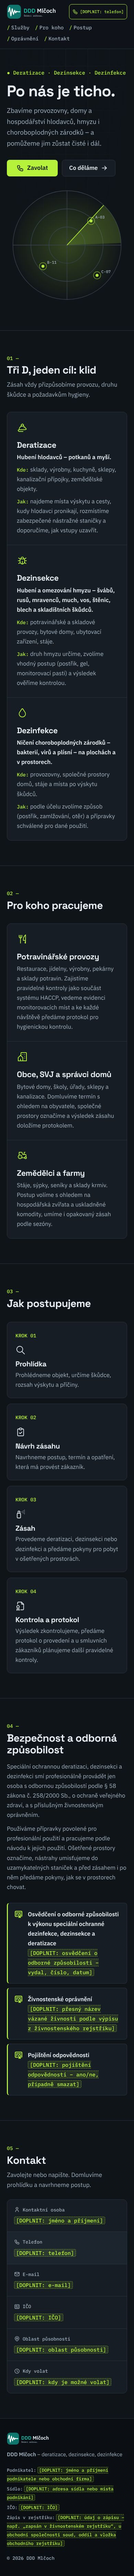
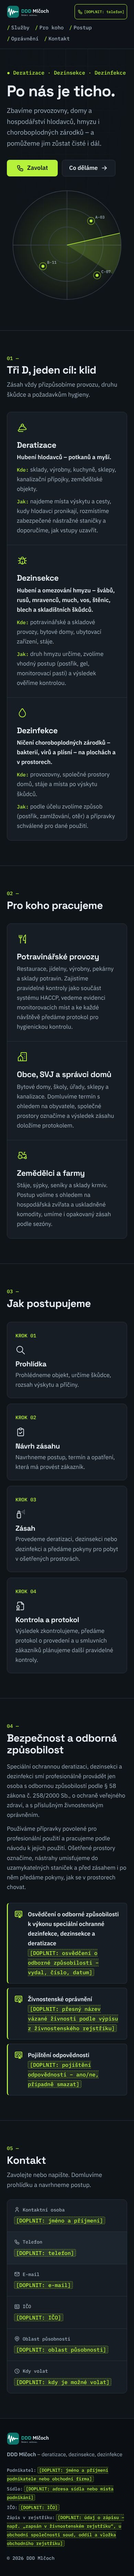
Krok 5–6: úprava hlavičky pro úzké mobily, nové náhledy, finální HANDOFF
Claude-Session: https://claude.ai/code/session_01GAFDRxXf4x42sG6FJH3ahW

Changed region(s): [[0.5846, 0.0624, 0.8923, 0.1249], [0.1231, 0.0, 0.1538, 0.0312], [0.0615, 0.0, 0.0923, 0.0312]]

diff --git a/navrhy/spolecne/zaklad.css b/navrhy/spolecne/zaklad.css
@@ -30,3 +30,8 @@ a { color: inherit; }
   .menu ul { column-gap: 16px !important; }
   .menu a { font-size: .92rem !important; }
 }
+/* Nejužší mobily (do 400 px): menší logo a tlačítko, aby se vešly vedle sebe */
+@media (max-width: 400px) {
+  .hlavicka .logo-slot { height: 36px; }
+  .hlavicka .btn--tel { font-size: .74rem !important; padding: .3em .6em !important; gap: .35em; }
+}

diff --git a/docs/HANDOFF.md b/docs/HANDOFF.md
@@ -2,26 +2,67 @@
 datum: 2026-11-05 · předává: krok 01 (návrhy) · přebírá: krok 02 (stavba webu)
 
 ## Stav jednou větou
-Rozpracováno – hotový základ, 10 log a texty; pokračují designy.
+Hotovo: 10 log, 5 návrhů hlavní stránky s přepínačem log, společné texty a galerie `navrhy/index.html`; čeká se na Davidův výběr loga a designu.
 
 ## Průběh (odškrtávej po každém kroku, pak commit + push)
 - ☑ Krok 0 – základ repozitáře
 - ☑ Krok 1 – 10 log
 - ☑ Krok 2 – texty + ověření právních bodů
-- ☐ Krok 3 – 5 designů
-- ☐ Krok 4 – galerie
-- ☐ Krok 5 – kontrola v prohlížeči
-- ☐ Krok 6 – dokončení předávky
-Rozpracováno: krok 3 – 5 designů v `navrhy/designy/`.
+- ☑ Krok 3 – 5 designů
+- ☑ Krok 4 – galerie
+- ☑ Krok 5 – kontrola v prohlížeči
+- ☑ Krok 6 – dokončení předávky
+Rozpracováno: nic. Další krok je Davidův výběr a prompt 02.
 
 ## Hotovo
-- Loga: (doplní se)
-- Designy: (doplní se)
-- Struktura složky `navrhy/`: (doplní se)
+### Loga (`navrhy/loga/`)
+Každé logo má soubor `logo-NN.svg` (celé logo) a `logo-NN-znacka.svg` (samotná značka, čtverec 100 × 100 – podklad pro favicon).
+
+| č. | název nápadu | v čem je vtip | soubor |
+|---|---|---|---|
+| 1 | Prst na ústech | Mlčoch = mlčet; prst na ústech, slogan „Po nás je ticho.“ | `logo-01.svg` |
+| 2 | Zmlklá vlna | zvuková vlna se uklidní do rovné čáry, „Škůdci zmlknou.“ | `logo-02.svg` |
+| 3 | Myš s cedulkou PSST | myš sama drží cedulku „PSST“, „Psst… už jsou pryč.“ (maskot) | `logo-03.svg` |
+| 4 | Ztichlý cvrček | cvrček usnul (zZ), „I cvrček ztichl.“ | `logo-04.svg` |
+| 5 | Stěhování škůdců | myš s kufříkem odchází, „Škůdci se stěhují.“ (maskot) | `logo-05.svg` |
+| 6 | Odznak s hubitelem | retro odznak, pan hubitel s knírem a čepicí mrká (maskot) | `logo-06.svg` |
+| 7 | Brouk s bílou vlajkou | brouk mává bílou vlajkou, „Škůdci kapitulují.“ + výstražná páska (maskot) | `logo-07.svg` |
+| 8 | DDD jako tři stopy | tři stopy ve tvaru D odcházejí z kruhu, „Stopy vedou pryč.“ (typografické) | `logo-08.svg` |
+| 9 | Tři kapky | tři kapky = tři D, prostřední s odškrtnutím, „Čisto. Ticho. Hotovo.“ (typografické) | `logo-09.svg` |
+| 10 | Písmeno D jako myš | písmeno D s uchem, očkem, vousky a ocáskem, „Myš? Jen v logu.“ (typografické) | `logo-10.svg` |
+
+Technika log (důležité pro krok 2):
+- Text log je zatím **živý text** (`<text>`) s písmem z `navrhy/pisma/`. Samostatný soubor SVG si písma načte přes `<?xml-stylesheet href="../spolecne/pisma.css"?>`; v HTML se logo vkládá inline. **V kroku 2 převést text vybraného loga na křivky** (opentype.js umí číst WOFF z `navrhy/pisma/*.woff`; WOFF2 nečte). Písma jsou podmnožina latin + latin-ext v jednom souboru, takže stačí jeden soubor na řez.
+- Barva textu jde přes CSS proměnné `--logo-ink` (název) a `--logo-ink2` (slogan); výchozí jsou tmavé. Na tmavém pozadí stačí nastavit světlé hodnoty (viz `.tmave` v `navrhy/spolecne/galerie.css`). Po převodu na křivky je vhodné připravit dvě varianty souboru (světlé/tmavé pozadí).
+- Všechna `id` v logu mají předponu `l01-` … `l10-` (gradient/vzor/clipPath jen u log 1 a 7). Při vkládání více kopií na jednu stránku přidává generátor/přepínač příponu.
+- Loga generuje skript `navrhy/nastroje/loga.py` (potřebuje `pip install fonttools`) – měří šířku textu podle písem, aby `viewBox` přesně seděl.
+
+### Designy (`navrhy/designy/`)
+| č. | směr | použité logo | barvy | písma | soubor |
+|---|---|---|---|---|---|
+| 1 | Čistý hygienický | 9 – Tři kapky | bílá, tyrkysová #0f766e, zelená #0b7a43, mátová #eef7f4, tmavě zelený text #10302b | Manrope | `design-1.html` + `design-1.css` |
+| 2 | Zemitý venkovský | 5 – Stěhování škůdců | papír #f4ecda se zrnem, olivová #3e4d1d/#55682a, okr #c98b2b, rez #9c4a2f | Fraunces (nadpisy), Source Sans 3 (text) | `design-2.html` + `design-2.css` |
+| 3 | Výstražný | 7 – Brouk s bílou vlajkou | žlutá #ffcc00, černá #121212, výstražné pásky | Barlow Condensed (nadpisy), Barlow (text) | `design-3.html` + `design-3.css` |
+| 4 | Tmavý technický | 2 – Zmlklá vlna | antracit #0f1419, panely #161d24, limetková #b6f23c, mřížka | Space Grotesk, IBM Plex Sans, IBM Plex Mono | `design-4.html` + `design-4.css` |
+| 5 | Retro řemeslný | 6 – Odznak s hubitelem | krémová #f6ead2, červená #c8322b, tmavá #2b2622, modrá #2f5d73 | Alfa Slab One, Pacifico, Bitter | `design-5.html` + `design-5.css` |
+
+Všechny designy mají stejnou HTML strukturu a všech 8 sekcí (hlavička, `#uvod`, `#sluzby`, `#pro-koho`, `#postup`, `#opravneni`, `#kontakt`, patička). Logo je v hlavičce ve slotu `.logo-slot` (pevná výška 56 px, na mobilu 42 px, do 400 px 36 px; šířka automatická). Přepínač loga (`?logo=N` v adrese nebo panel vlevo dole) je jen v návrzích.
+
+### Struktura složky `navrhy/`
+- `index.html` – galerie pro Davida
+- `loga/` – 10 log + 10 samostatných značek (SVG)
+- `designy/` – `design-1..5.html` + vlastní `design-1..5.css`
+- `nahledy/` – snímky celé stránky: `design-N-pocitac.jpg` (1440 px zmenšeno na 720 px), `design-N-mobil.jpg` (390 px), `galerie-pocitac.jpg`, `galerie-mobil.jpg`; všechny pod 400 KB
+- `spolecne/` – `pisma.css` (@font-face), `zaklad.css` (společný základ designů), `prepinac.js` (přepínač log), `loga.js` (loga jako text pro přepínač – generované), `galerie.css`
+- `pisma/` – WOFF2 (web) + WOFF (pro převod na křivky), `pisma/licence/` – licence OFL
+- `ikony/` – použité ikony Tabler (SVG) + `LICENSE-tabler.txt`; `mys.svg` je vlastní kresba
+- `nastroje/` – `loga.py` (generátor log), `designy.py` (sestaví designy, `loga.js` a galerii z textů; jen standardní knihovna Pythonu). Krok 2 je nepotřebuje – finální web se píše ručně.
 
 ## Licence
-- Písma: (doplní se)
-- Ikony: (doplní se)
+- Písma (všechna SIL Open Font License 1.1, staženo přes npm balíčky `@expo-google-fonts/*`, zmenšeno na latin + latin-ext nástrojem fonttools):
+  Manrope, Fraunces, Source Sans 3, Barlow, Barlow Condensed, Space Grotesk, IBM Plex Sans, IBM Plex Mono, Alfa Slab One, Pacifico, Bitter, Baloo 2 – texty licencí v `navrhy/pisma/licence/`.
+- Ikony: Tabler Icons 3.50.0 – MIT (`navrhy/ikony/LICENSE-tabler.txt`, npm `@tabler/icons`). Ikona myši (`mys.svg`), všechna loga a ilustrace v úvodech designů jsou vlastní kresba.
+- Žádné fotky ani obrázky odjinud.
 
 ## Ověřené právní body
 | Bod | Výsledek | Zdroj | Datum |
@@ -46,10 +87,21 @@ Všechny se vyskytují v `obsah/texty.md` a ve všech 5 designech `navrhy/design
 - `[DOPLNIT: údaj o zápisu …]` – patička
 
 ## Předpoklady
-- Skill `frontend-design` v tomto sezení není k dispozici, návrhy vznikly bez něj.
+- Skill `frontend-design` v tomto sezení nebyl k dispozici, návrhy vznikly bez něj.
+- Hlavní slogan „Po nás je ticho.“ a humorný nadpis „Tři D, jeden cíl: klid“ (sekce Služby) jsou jediná vtipná místa mimo logo (pravidlo max. 2 nadpisy dodrženo).
+- Výčet škůdců a postupů v sekci Služby je obecný popis oboru, ne tvrzení o konkrétní firmě. Pokud firma některou službu nedělá (např. vosy, štěnice, zamlžování), v kroku 2 smazat.
+- Věta o „uzamykatelných staničkách“ a „přípravcích povolených pro profesionální použití“ popisuje běžnou správnou praxi; David ať potvrdí, že odpovídá skutečnosti.
+- Povinná věta z čl. 72 odst. 1 („Používejte biocidní přípravky bezpečně…“) na webu není, protože web nejmenuje ani nenabízí žádný konkrétní přípravek (opatrnější varianta – viz tabulka výše).
+- Sekce 6 se jmenuje „Bezpečnost a odborná způsobilost“; v menu je zkráceně „Oprávnění“ (kotva `#opravneni`).
+- Rok v patičce: 2026.
+- Kontakt obsahuje i řádky „Kontaktní osoba“ a „Kdy volat“ – nepovinné, lze smazat.
+- Na mobilu (pod 960 px) hlavička nezůstává přilepená nahoře, protože menu má dva řádky; na počítači je u designů 1, 3, 4 přilepená.
+- Menu na mobilu je zalomené do řádků (bez „hamburgeru“), aby nebyl potřeba JavaScript.
 
 ## Otevřené problémy / co neproběhlo
-- (zatím nic)
+- **Právní body ověřeny jen ze sekundárních zdrojů**: síťové nastavení tohoto cloudového prostředí neumožnilo otevřít eur-lex.europa.eu ani e-sbirka.gov.cz (DNS blokováno). Doporučení: v kroku 2 nebo 3 ověřit znění čl. 72 nařízení 528/2012, § 435 OZ a přesný název vázané živnosti na primárních zdrojích (případně povolit tyto domény v nastavení prostředí).
+- Vizuální kontrola **proběhla** (Playwright/Chromium, server v podsložce `/ddd-mlcoch-web/`): snímky 1440 a 390 px prohlédnuty, všech 10 log přepnuto v hlavičce každého designu na 360, 390 a 1440 px, bez vodorovného posouvání (kontrolováno i 360 px), konzole bez chyb, žádné externí požadavky, všechny odkazy a kotvy fungují, žádné `tel:`/`mailto:` odkazy, `noindex` na všech stránkách.
+- Loga 4 a 5 mají v tmavé variantě „DDD“ ve středně tmavé barvě (modrá/olivová) – čitelné, ale s menším kontrastem; u vybraného loga v kroku 2 případně zesvětlit pro tmavé pozadí.
 
 ## Další krok
 David vybere logo a design v galerii a spustí prompt 02.
